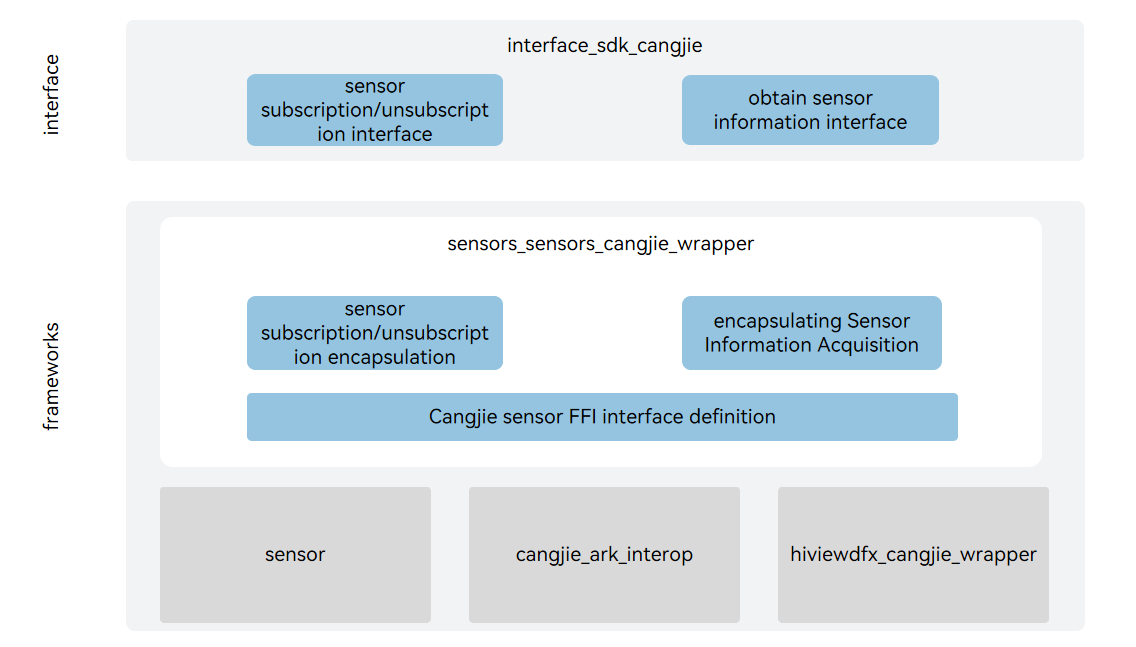
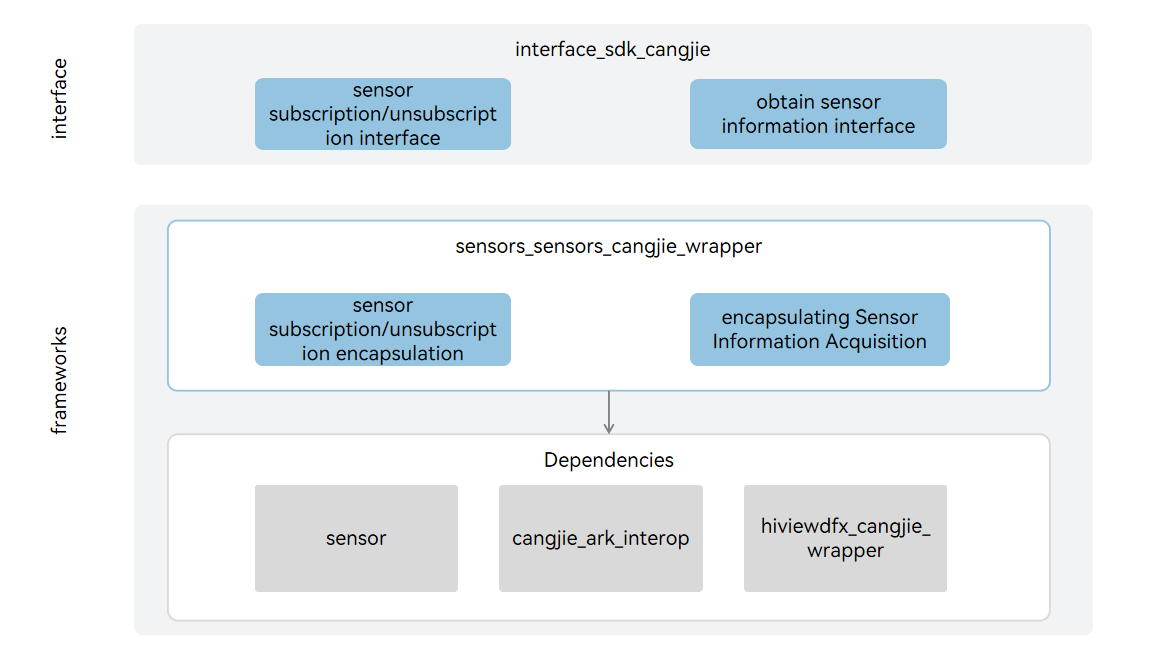
fix readme

diff --git a/README.md b/README.md
@@ -21,7 +21,7 @@ Framework Layer
 
 - Sensor Subscribe/Unsubscribe Function Encapsulation: Based on the subscribe/unsubscribe sensor capabilities provided by the underlying sensor component, implements the function of subscribing/unsubscribing to sensor data in Cangjie.
 - Get Sensor Information Interface Function Encapsulation: Based on the get sensor information capabilities provided by the underlying sensor component, implements the function of getting sensor information on the device in Cangjie.
-- Cangjie Sensor FFI Interface Definition: Responsible for defining C language interoperability interfaces called by the Cangjie language to implement Cangjie Sensor capabilities.
+- 
 
 Dependency Component Introduction in Architecture Diagram:
 

diff --git a/README_zh.md b/README_zh.md
@@ -21,7 +21,7 @@
 
 - 传感器订阅/取消订阅功能封装：基于底层 sensor 组件提供的订阅/取消订阅传感器的能力，实现仓颉订阅/取消订阅传感器数据的功能。
 - 获取传感器信息接口功能封装：基于底层 sensor 组件提供的获取传感器信息的能力，实现仓颉获取设备上传感器信息的功能。
-- 仓颉传感器FFI接口定义：负责定义被仓颉语言调用的C语言互操作接口，用于实现仓颉 Sensor 能力。
+- 
 
 架构图中的依赖部件引入说明：
 
